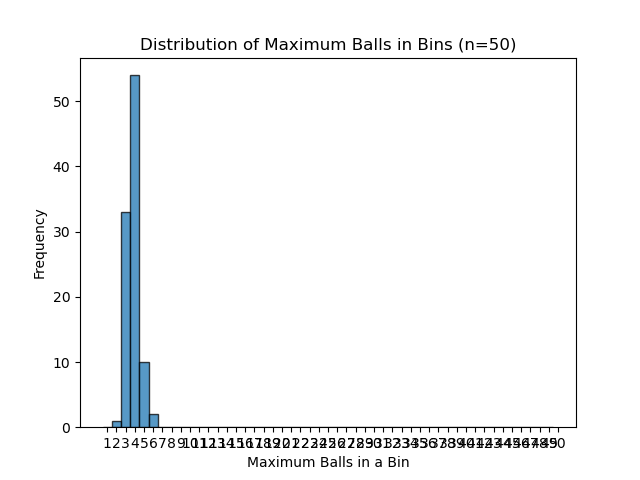
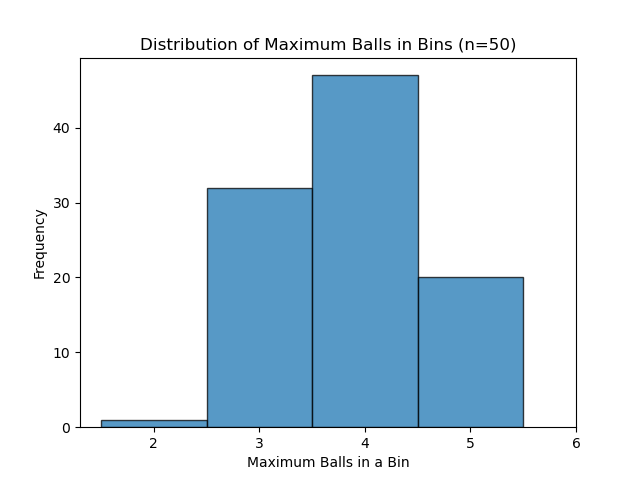
Completed the 37th problem

diff --git a/Part 3/36 Throwing N Balls to N Bins/ball_throw_simulation.py b/Part 3/36 Throwing N Balls to N Bins/ball_throw_simulation.py
@@ -18,10 +18,12 @@ max_balls_list = []
 for i in range(100):
   max_balls_list.append(simulate_ball_throw(count))
 
-plt.hist(max_balls_list, bins=range(1, count+1), align='left', alpha=0.75, edgecolor='black' )
+num_bins_hist = max(max_balls_list) - min(max_balls_list)
+
+plt.hist(max_balls_list, bins=num_bins_hist, align='left', alpha=0.75, edgecolor='black' )
 plt.title(f"Distribution of Maximum Balls in Bins (n={count})")
 plt.xlabel("Maximum Balls in a Bin")
-plt.xticks(range(1, count+1))
+plt.xticks(range(min(max_balls_list), max(max_balls_list)+1))
 plt.ylabel("Frequency")
 plt.savefig('histogram.png')
 

diff --git a/Part 3/37 Throwing Balls to N Bins copy/ball_throw_simulation.py b/Part 3/37 Throwing Balls to N Bins copy/ball_throw_simulation.py
@@ -1,0 +1,24 @@
+import random
+
+def simulate_ball_throw(n_bins):
+
+  bins = [0] * n_bins
+  balls = 0
+
+  while 0 in bins:
+    bin_index = random.randint(0, n_bins-1)
+    balls += 1
+    bins[bin_index] += 1
+
+  return balls
+
+num_bins = int(input("Enter the number of bins : "))
+
+
+num_balls_list = []
+for i in range(1000):
+  num_balls_list.append(simulate_ball_throw(num_bins))
+
+max_occurred_balls= max(set(num_balls_list), key=num_balls_list.count)
+
+print("The number of ball throws required is " + str(max_occurred_balls))

diff --git a/Part 3/37 Throwing Balls to N Bins copy/balls_bins_graph.py b/Part 3/37 Throwing Balls to N Bins copy/balls_bins_graph.py
@@ -1,0 +1,15 @@
+import matplotlib.pyplot as plt
+
+# Data
+bins = [10, 20, 30, 40, 50, 60, 70, 80, 90, 100, 500, 1000]
+balls_required = [25, 60, 100, 128, 169, 254, 273, 308, 396, 480, 3120, 6201]
+
+# Plotting the data
+plt.figure(figsize=(10, 6))
+plt.plot(bins, balls_required, color='blue', marker='o')
+plt.title('Bins vs. Balls Required')
+plt.xlabel('Number of Bins')
+plt.ylabel('Balls Required')
+plt.grid(True)
+plt.savefig('Balls_vs_Bins.png')
+plt.show()

diff --git a/Part 3/36 Throwing N Balls to N Bins/Report.md b/Part 3/36 Throwing N Balls to N Bins/Report.md
@@ -14,5 +14,9 @@ I conducted a simulation of throwing N identical balls into N bins, repeating th
 |      80      |           4            |
 |      90      |           4            |
 |     100      |           4            |
+|     200      |           4            |
+|     300      |           5            |
+|     400      |           5            |
+|     500      |           5            |
 
-From the table, it is observed that up to 30 bins and balls, the maximum number of balls in a bin is consistently 3. However, from 40 bins and balls onwards, the maximum number of balls in a bin increases to 4 and remains the same until 100 bins and balls and even beyond.
+From the table, it is observed that up to 30 bins and balls, the maximum number of balls in a bin is consistently 3. However, from 40 bins and balls onwards, the maximum number of balls in a bin increases to 4 and remains the same until 200 bins and balls and even beyond until 1100 bins and balls.

diff --git a/Part 3/37 Throwing Balls to N Bins copy/Report.md b/Part 3/37 Throwing Balls to N Bins copy/Report.md
@@ -1,0 +1,20 @@
+# Ball and Bin Simulation Results
+
+I conducted a simulation of throwing identical balls into N bins until all the bins are non-empty, repeating the process 1000 times for various combinations of bins. The results are summarized in the following table:
+
+| Bins | Balls Required |
+| :--: | :------------: |
+|  10  |       25       |
+|  20  |       60       |
+|  30  |      100       |
+|  40  |      128       |
+|  50  |      169       |
+|  60  |      254       |
+|  70  |      273       |
+|  80  |      308       |
+|  90  |      396       |
+| 100  |      480       |
+| 500  |      3120      |
+| 1000 |      6201      |
+
+From the table, it is observed that the number of balls required is linearly related to the number of bins. As the number of bins increases, the number of balls required to fill all the bins also increases proportionally.
